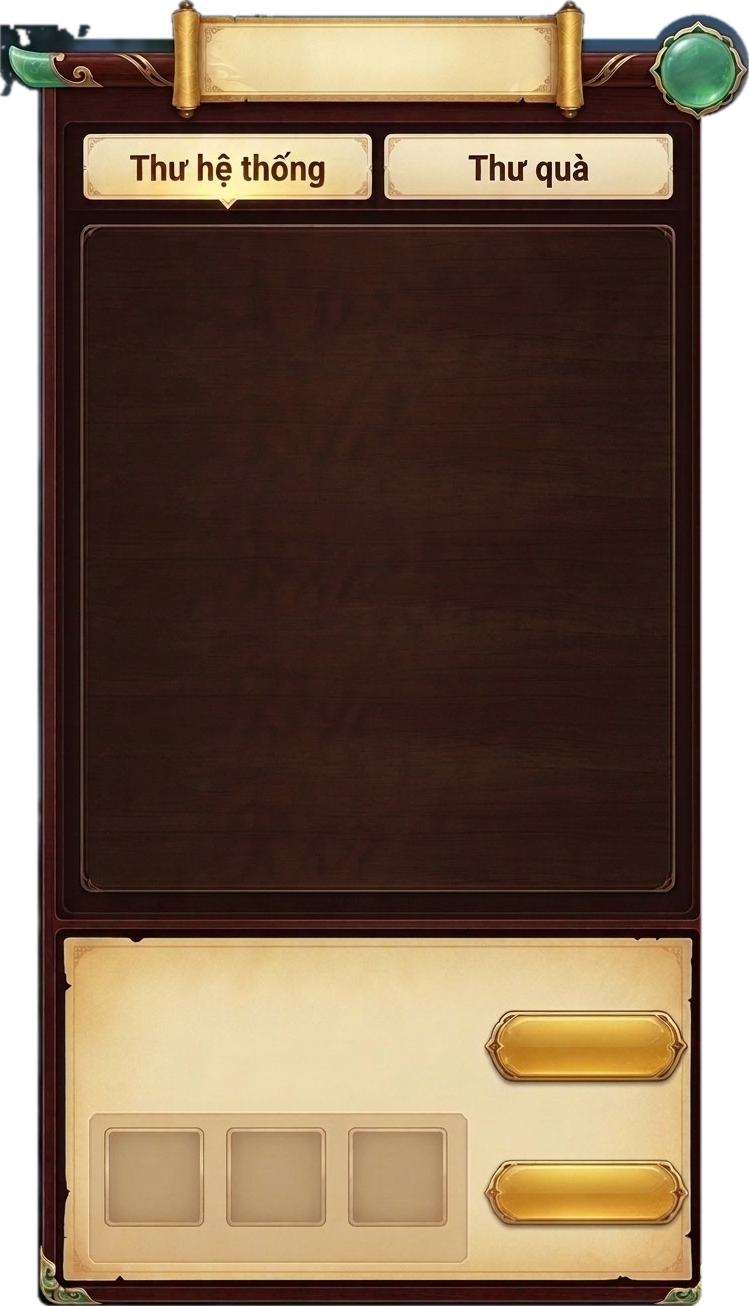
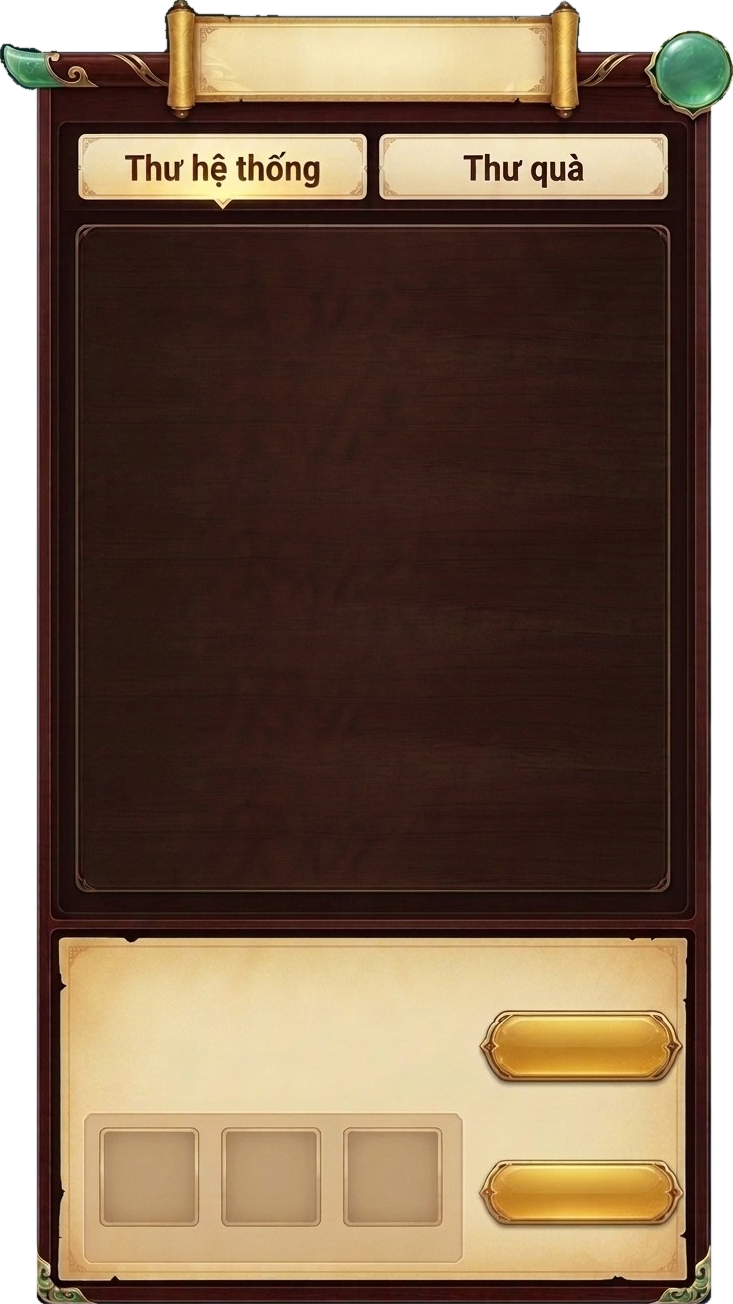
ui(mail): hard-cut the wooden frame (exact edges, no backdrop fringe)

diff --git a/src/ui/mail-hall.css b/src/ui/mail-hall.css
@@ -14,7 +14,7 @@
 #hvMailRoot .hv-mail-frame{
   position:relative;flex:0 0 auto;container-type:inline-size;
   width:min(100vw,calc(100dvh * 768 / 1376));aspect-ratio:768/1376;
-  background:url('assets/ui/mail/mail-lacquer-frame.png') 31.58% 50%/97.526% 94.913% no-repeat;
+  background:url('assets/ui/mail/mail-lacquer-frame.png') 31.43% 48.61%/95.443% 94.767% no-repeat;
   filter:drop-shadow(0 10px 24px rgba(0,0,0,.6));
 }
 #hvMailRoot .hv-mail-top{position:absolute;left:27.6%;top:4.2%;width:45.5%;height:5%;display:grid;place-items:center;pointer-events:none}
